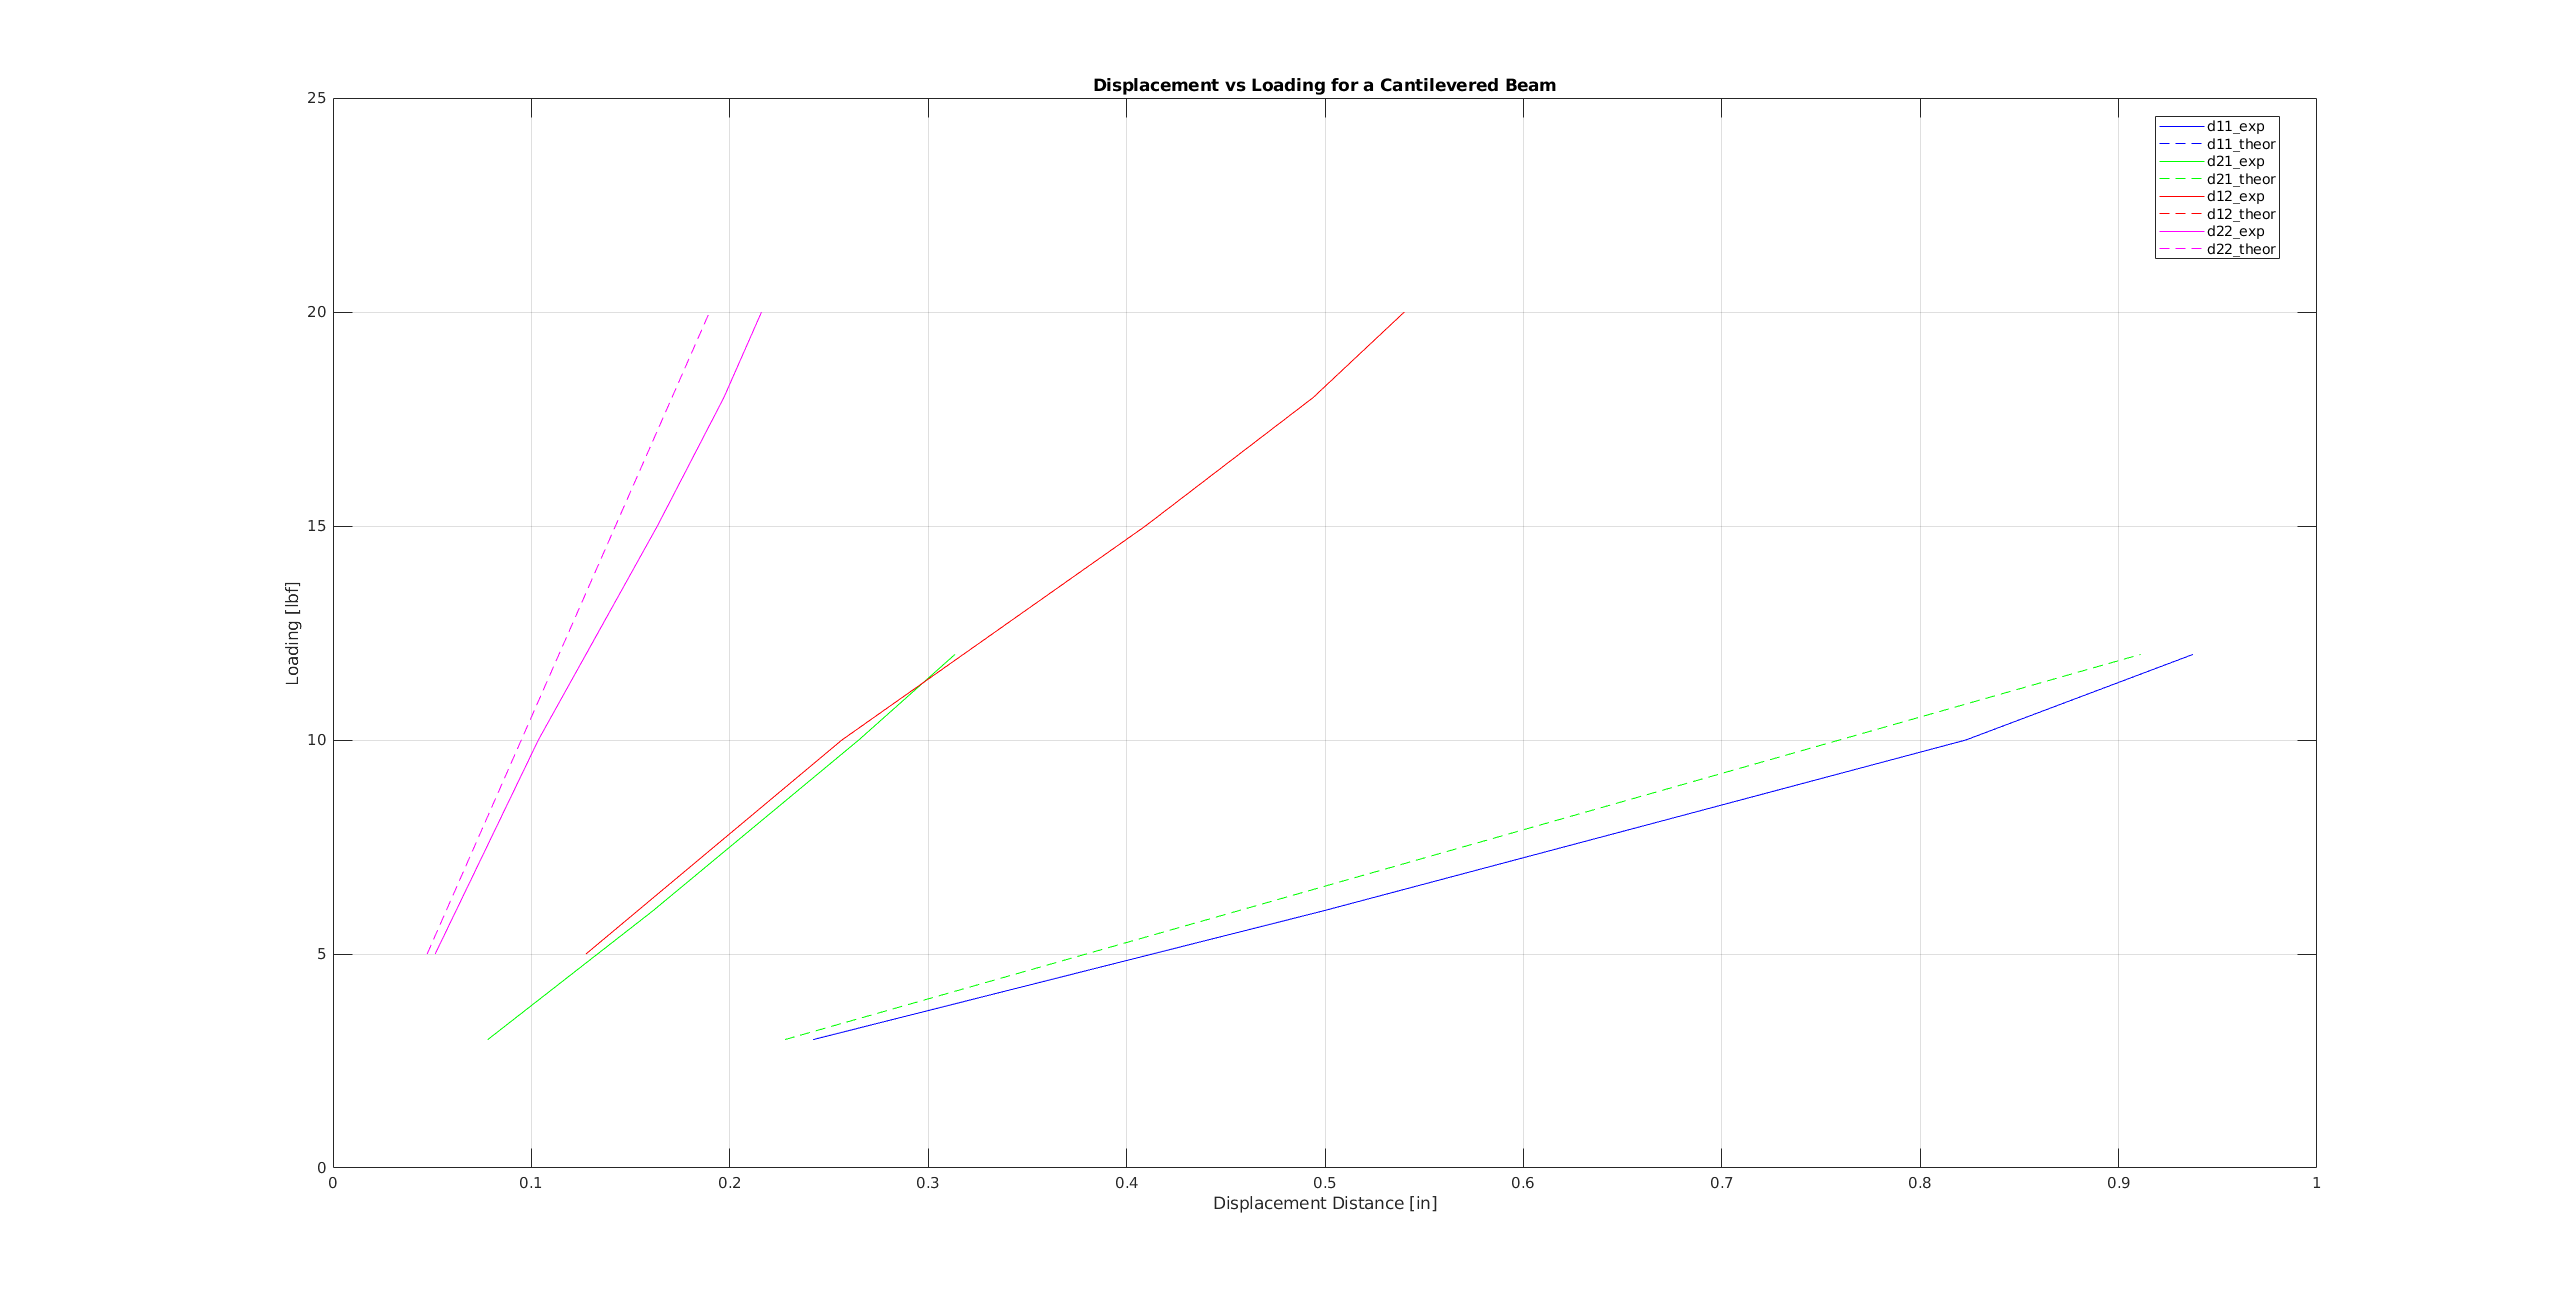
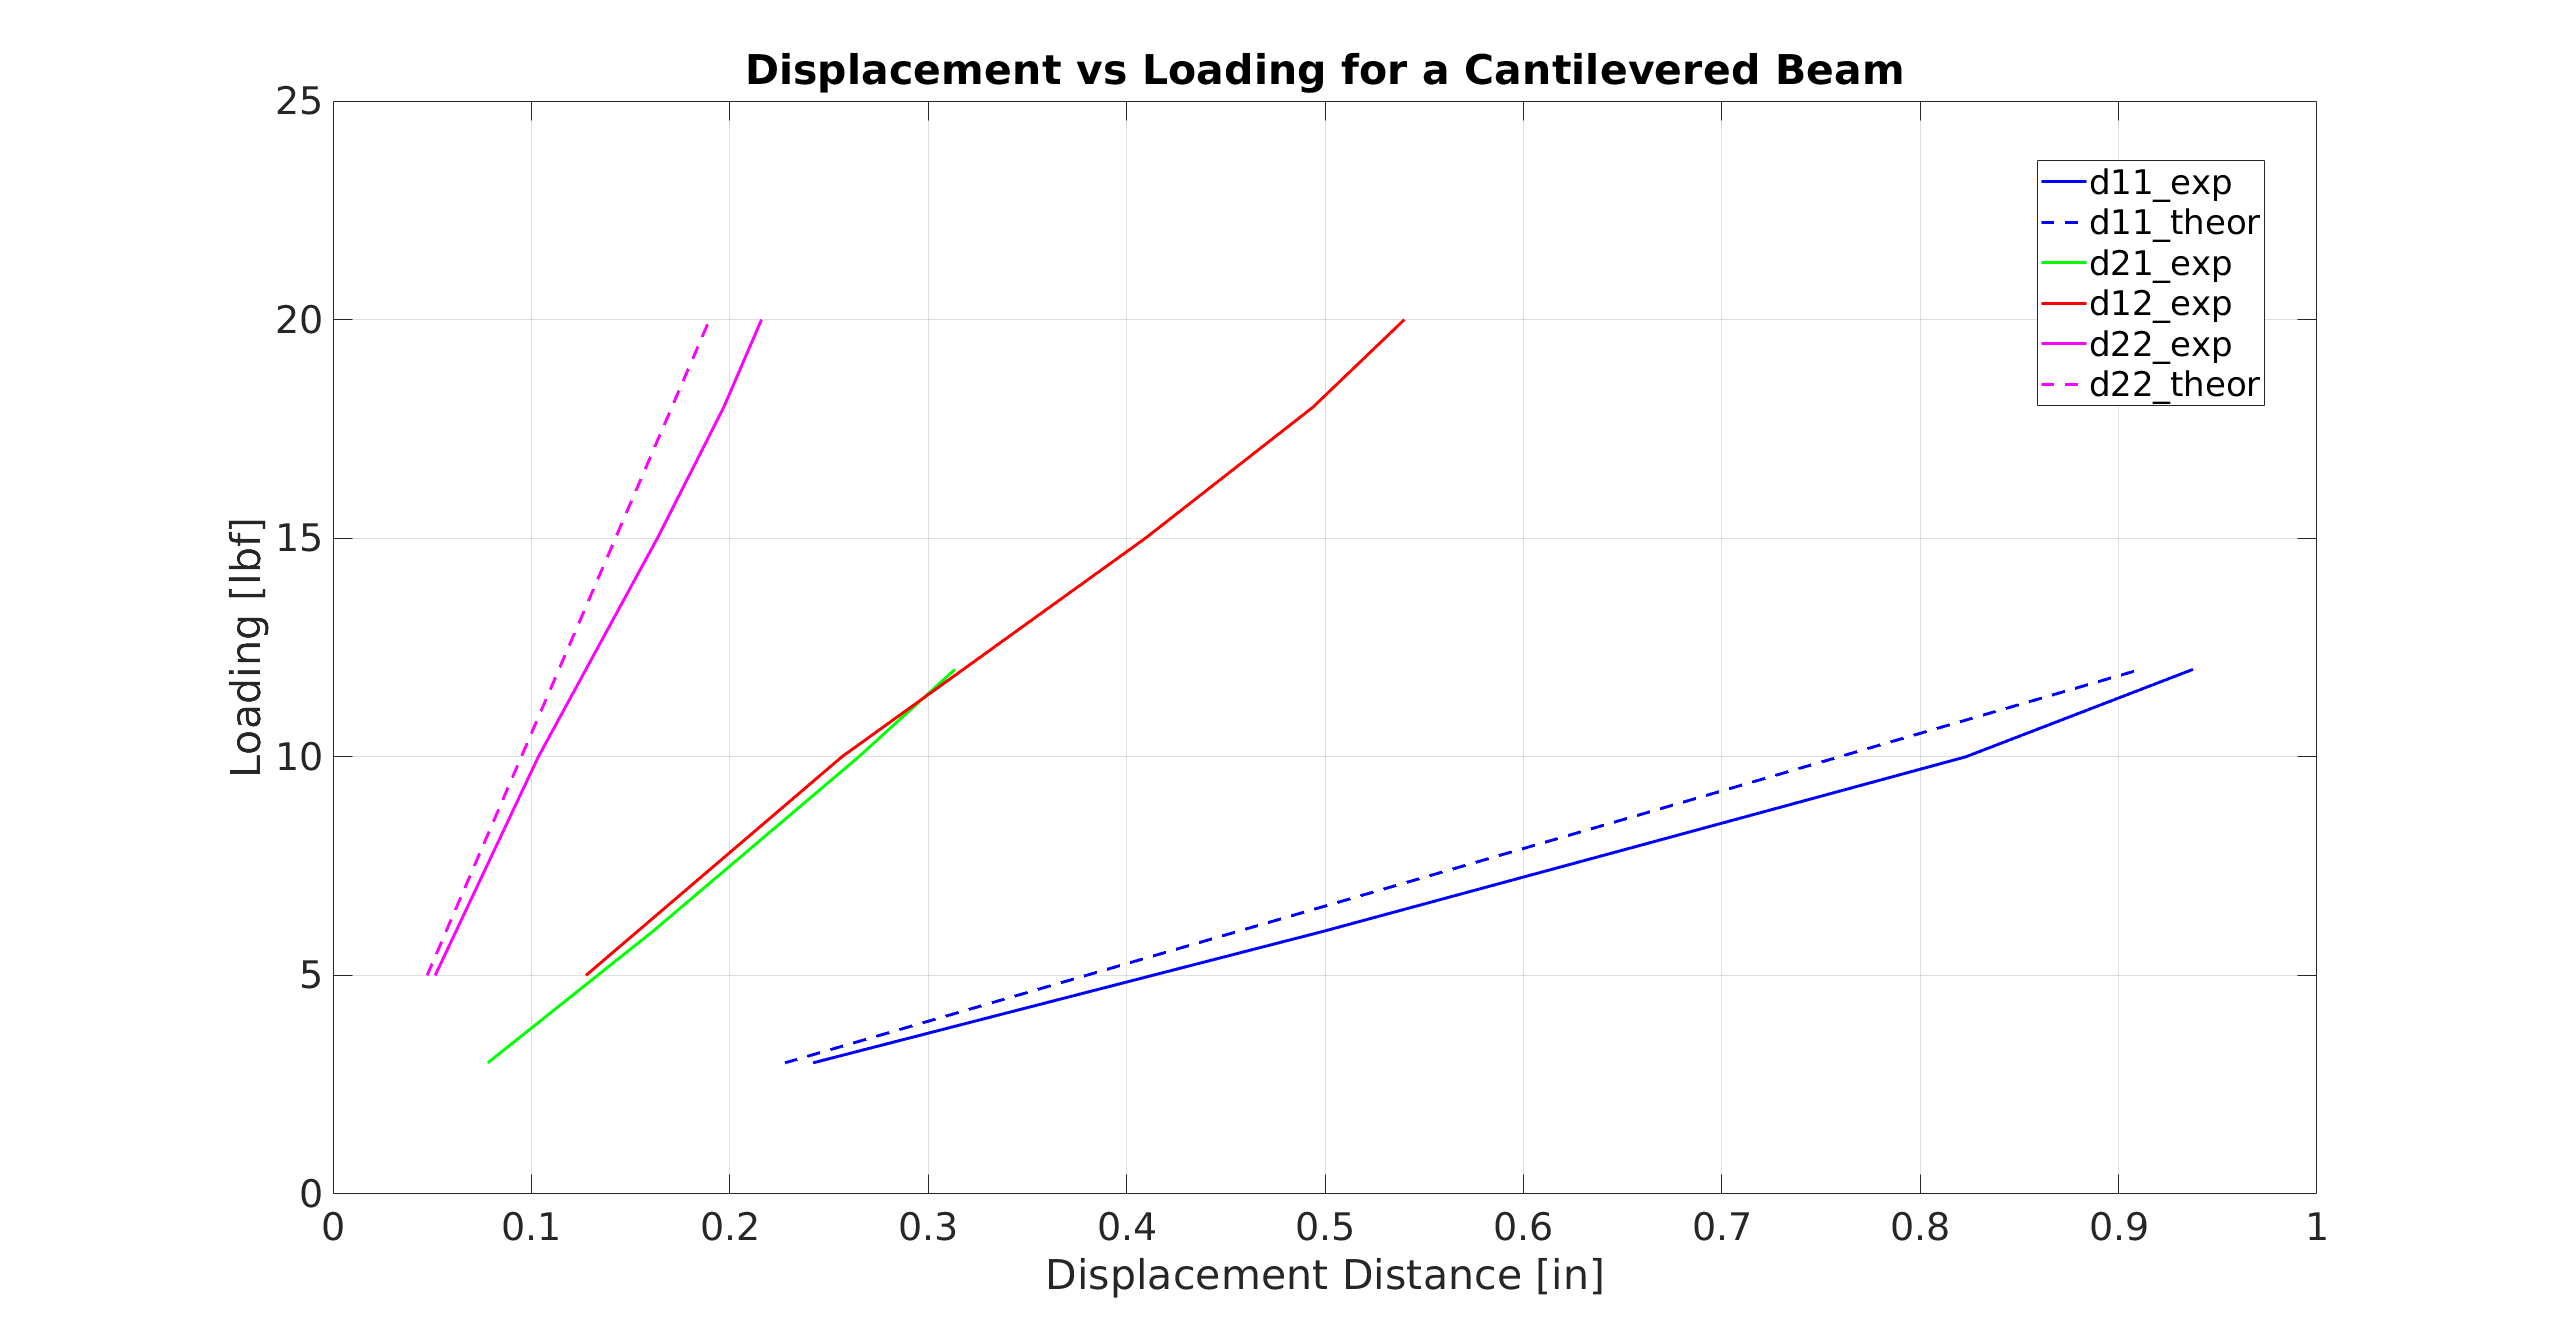
finished up lab3 calcs

diff --git a/Lab3/lab3calcscript.m b/Lab3/lab3calcscript.m
@@ -114,46 +114,50 @@ cant.d22Err = abs(cant.theord22_in - cant.d22_in)./cant.theord22_in * 100;
 
 % Simply Supported Plot
 figure('Name','Simply Supported')
-plot(simple.d11_in,simple.L2Loads_lb,'b')
+plot(simple.d11_in,simple.L2Loads_lb,'b','LineWidth',2)
 hold on, grid on;
-plot(simple.theord11_in, simple.L2Loads_lb, 'b--')
+plot(simple.theord11_in, simple.L2Loads_lb, 'b--','LineWidth',2)
 
-plot(simple.d21_in, simple.L2Loads_lb,'g')
-plot(simple.theord21_in, simple.L2Loads_lb,'g--')
+plot(simple.d21_in, simple.L2Loads_lb,'g','LineWidth',2)
+% plot(simple.theord21_in, simple.L2Loads_lb,'g--','LineWidth',2)
 
-plot(simple.d12_in, simple.L4Loads_lb, 'r')
-plot(simple.theord12_in, simple.L4Loads_lb, 'r--')
+plot(simple.d12_in, simple.L4Loads_lb, 'r','LineWidth',2)
+% plot(simple.theord12_in, simple.L4Loads_lb, 'r--','LineWidth',2)
 
-plot(simple.d22_in, simple.L4Loads_lb, 'Color','magenta')
-plot(simple.theord22_in, simple.L4Loads_lb, '--', 'Color','magenta')
+plot(simple.d22_in, simple.L4Loads_lb, 'Color','magenta','LineWidth',2)
+plot(simple.theord22_in, simple.L4Loads_lb, '--', 'Color','magenta','LineWidth',2)
 
 ylim([0 60])
 xlabel("Displacement Distance [in]")
 ylabel("Loading [lbf]")
 title("Displacement vs Loading for a Simply Supported Beam")
-legend({'d11_exp', 'd11_theor', 'd21_exp', 'd21_theor', 'd12_exp', 'd12_theor', 'd22_exp', 'd22_theor'},'Location','Best','Interpreter','none')
+legend({'d11_exp', 'd11_theor', 'd21_exp', 'd12_exp', 'd22_exp', 'd22_theor'},'Location','Best','Interpreter','none')
+ax = gca;
+ax.FontSize = 25;
+
 
 % Cantilever Plot
 figure('Name', 'Cantilever')
-plot(cant.d11_in, cant.LLoads_lb, 'b'); hold on, grid on,
-plot(cant.theord11_in, cant.LLoads_lb, 'b--')
+plot(cant.d11_in, cant.LLoads_lb, 'b','LineWidth',2); hold on, grid on,
+plot(cant.theord11_in, cant.LLoads_lb, 'b--','LineWidth',2)
 
-plot(cant.d21_in, cant.LLoads_lb, 'g')
-plot(cant.theord21_in, cant.LLoads_lb, 'g--')
+plot(cant.d21_in, cant.LLoads_lb, 'g','LineWidth',2)
+% plot(cant.theord21_in, cant.LLoads_lb, 'g--','LineWidth',2)
 
-plot(cant.d12_in, cant.L2Loads_lb, 'r')
-plot(cant.theord12_in, cant.L2Loads_lb, 'r--')
+plot(cant.d12_in, cant.L2Loads_lb, 'r','LineWidth',2)
+% plot(cant.theord12_in, cant.L2Loads_lb, 'r--','LineWidth',2)
 
-plot(cant.d22_in, cant.L2Loads_lb, 'Color','magenta')
-plot(cant.theord22_in, cant.L2Loads_lb, '--', 'Color', 'magenta')
+plot(cant.d22_in, cant.L2Loads_lb, 'Color','magenta','LineWidth',2)
+plot(cant.theord22_in, cant.L2Loads_lb, '--', 'Color', 'magenta','LineWidth',2)
 
 ylim([0 25])
 
 xlabel("Displacement Distance [in]")
 ylabel("Loading [lbf]")
 title("Displacement vs Loading for a Cantilevered Beam")
-legend({'d11_exp', 'd11_theor', 'd21_exp', 'd21_theor', 'd12_exp', 'd12_theor', 'd22_exp', 'd22_theor'},'Location','Best','Interpreter','none')
-
+legend({'d11_exp', 'd11_theor', 'd21_exp', 'd12_exp', 'd22_exp', 'd22_theor'},'Location','Best','Interpreter','none')
+ax = gca;
+ax.FontSize = 25;
 
 
 %% Output Tables
